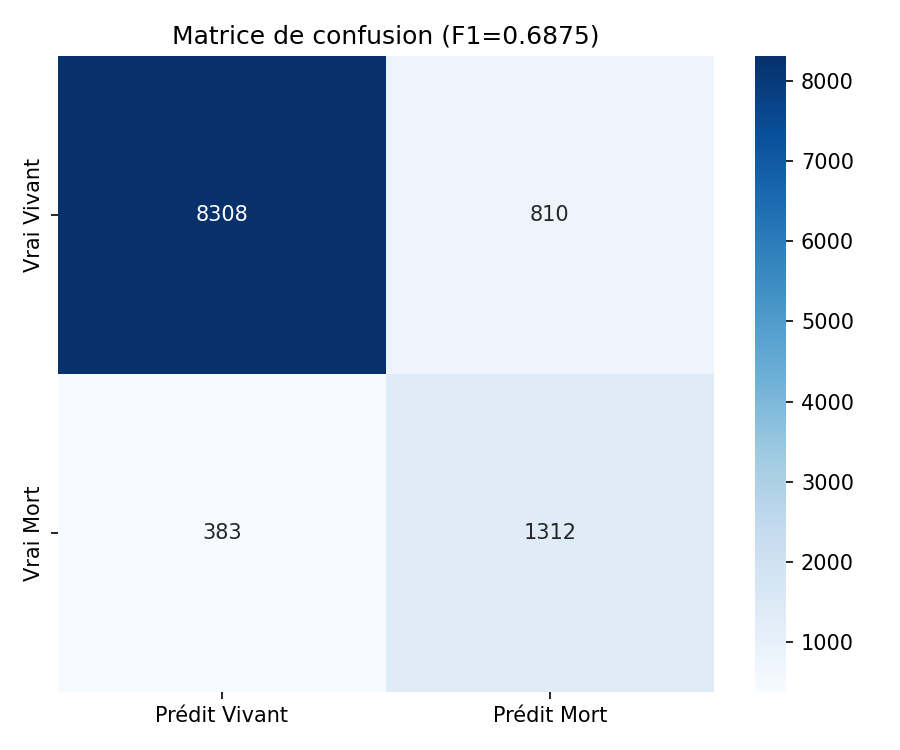
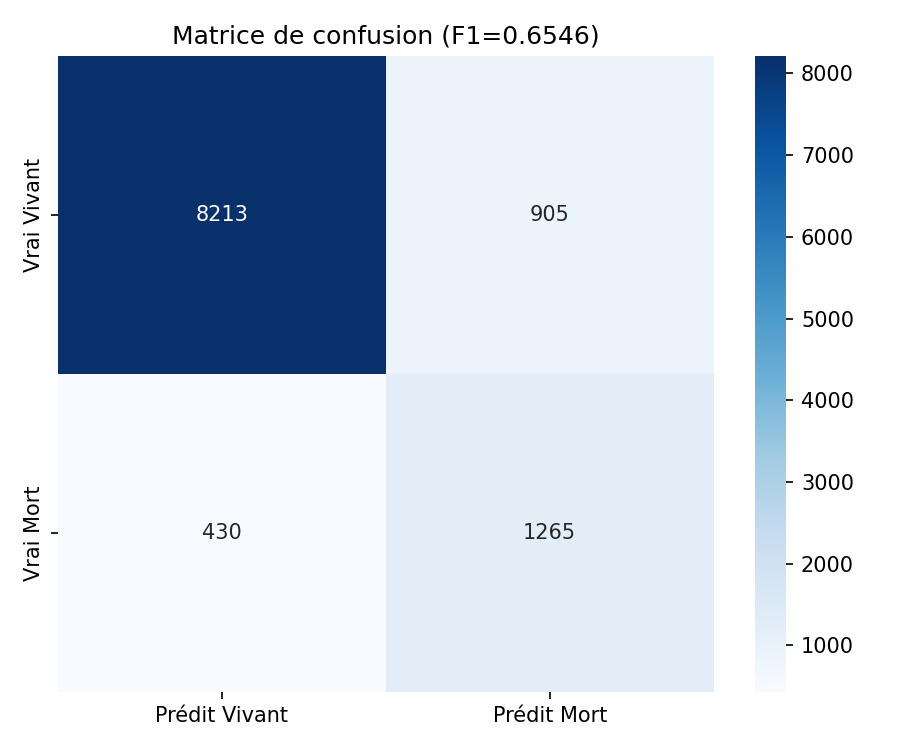
jsp

diff --git a/model.py b/model.py
@@ -12,7 +12,7 @@ class Model:
 
     @staticmethod
     def load_data():
-        df = pd.read_csv(os.path.join('data', 'data_clean.csv'))
+        df = pd.read_csv(os.path.join('data', 'data_clean_scaled.csv'))
         
         df_train = df[df['MORTSTAT_2019'].notna()].copy()
         df_test  = df[df['MORTSTAT_2019'].isna()].copy()
